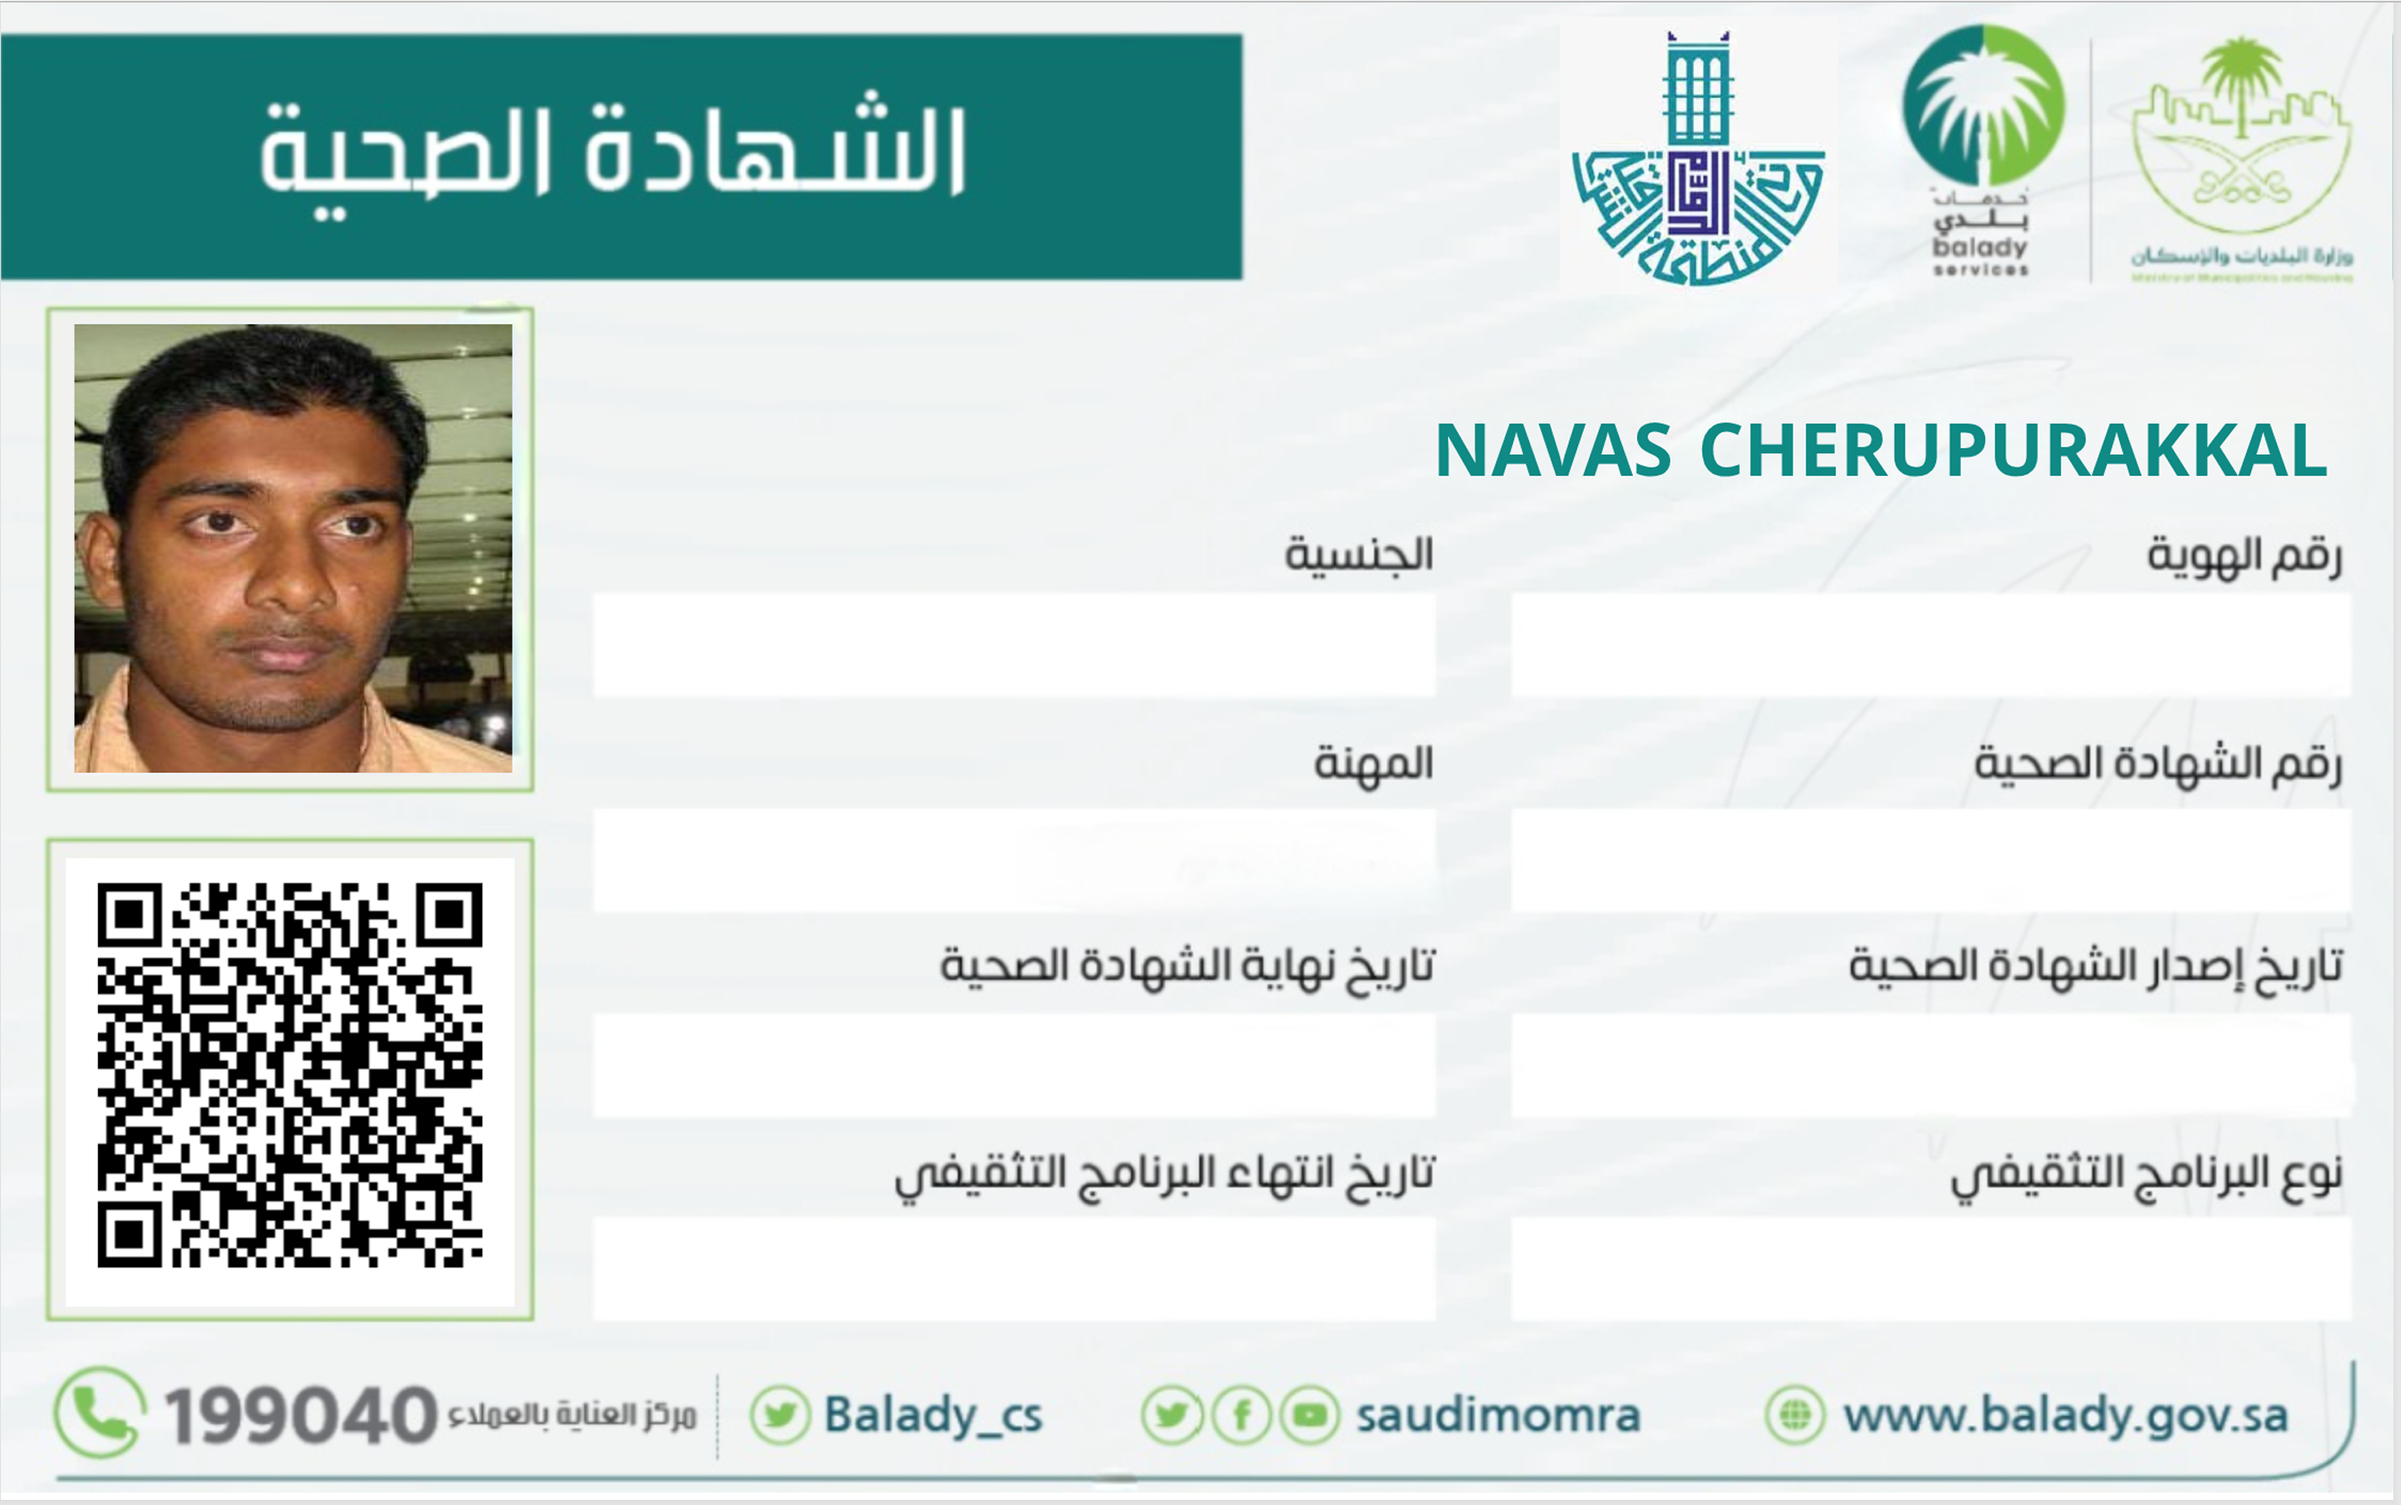
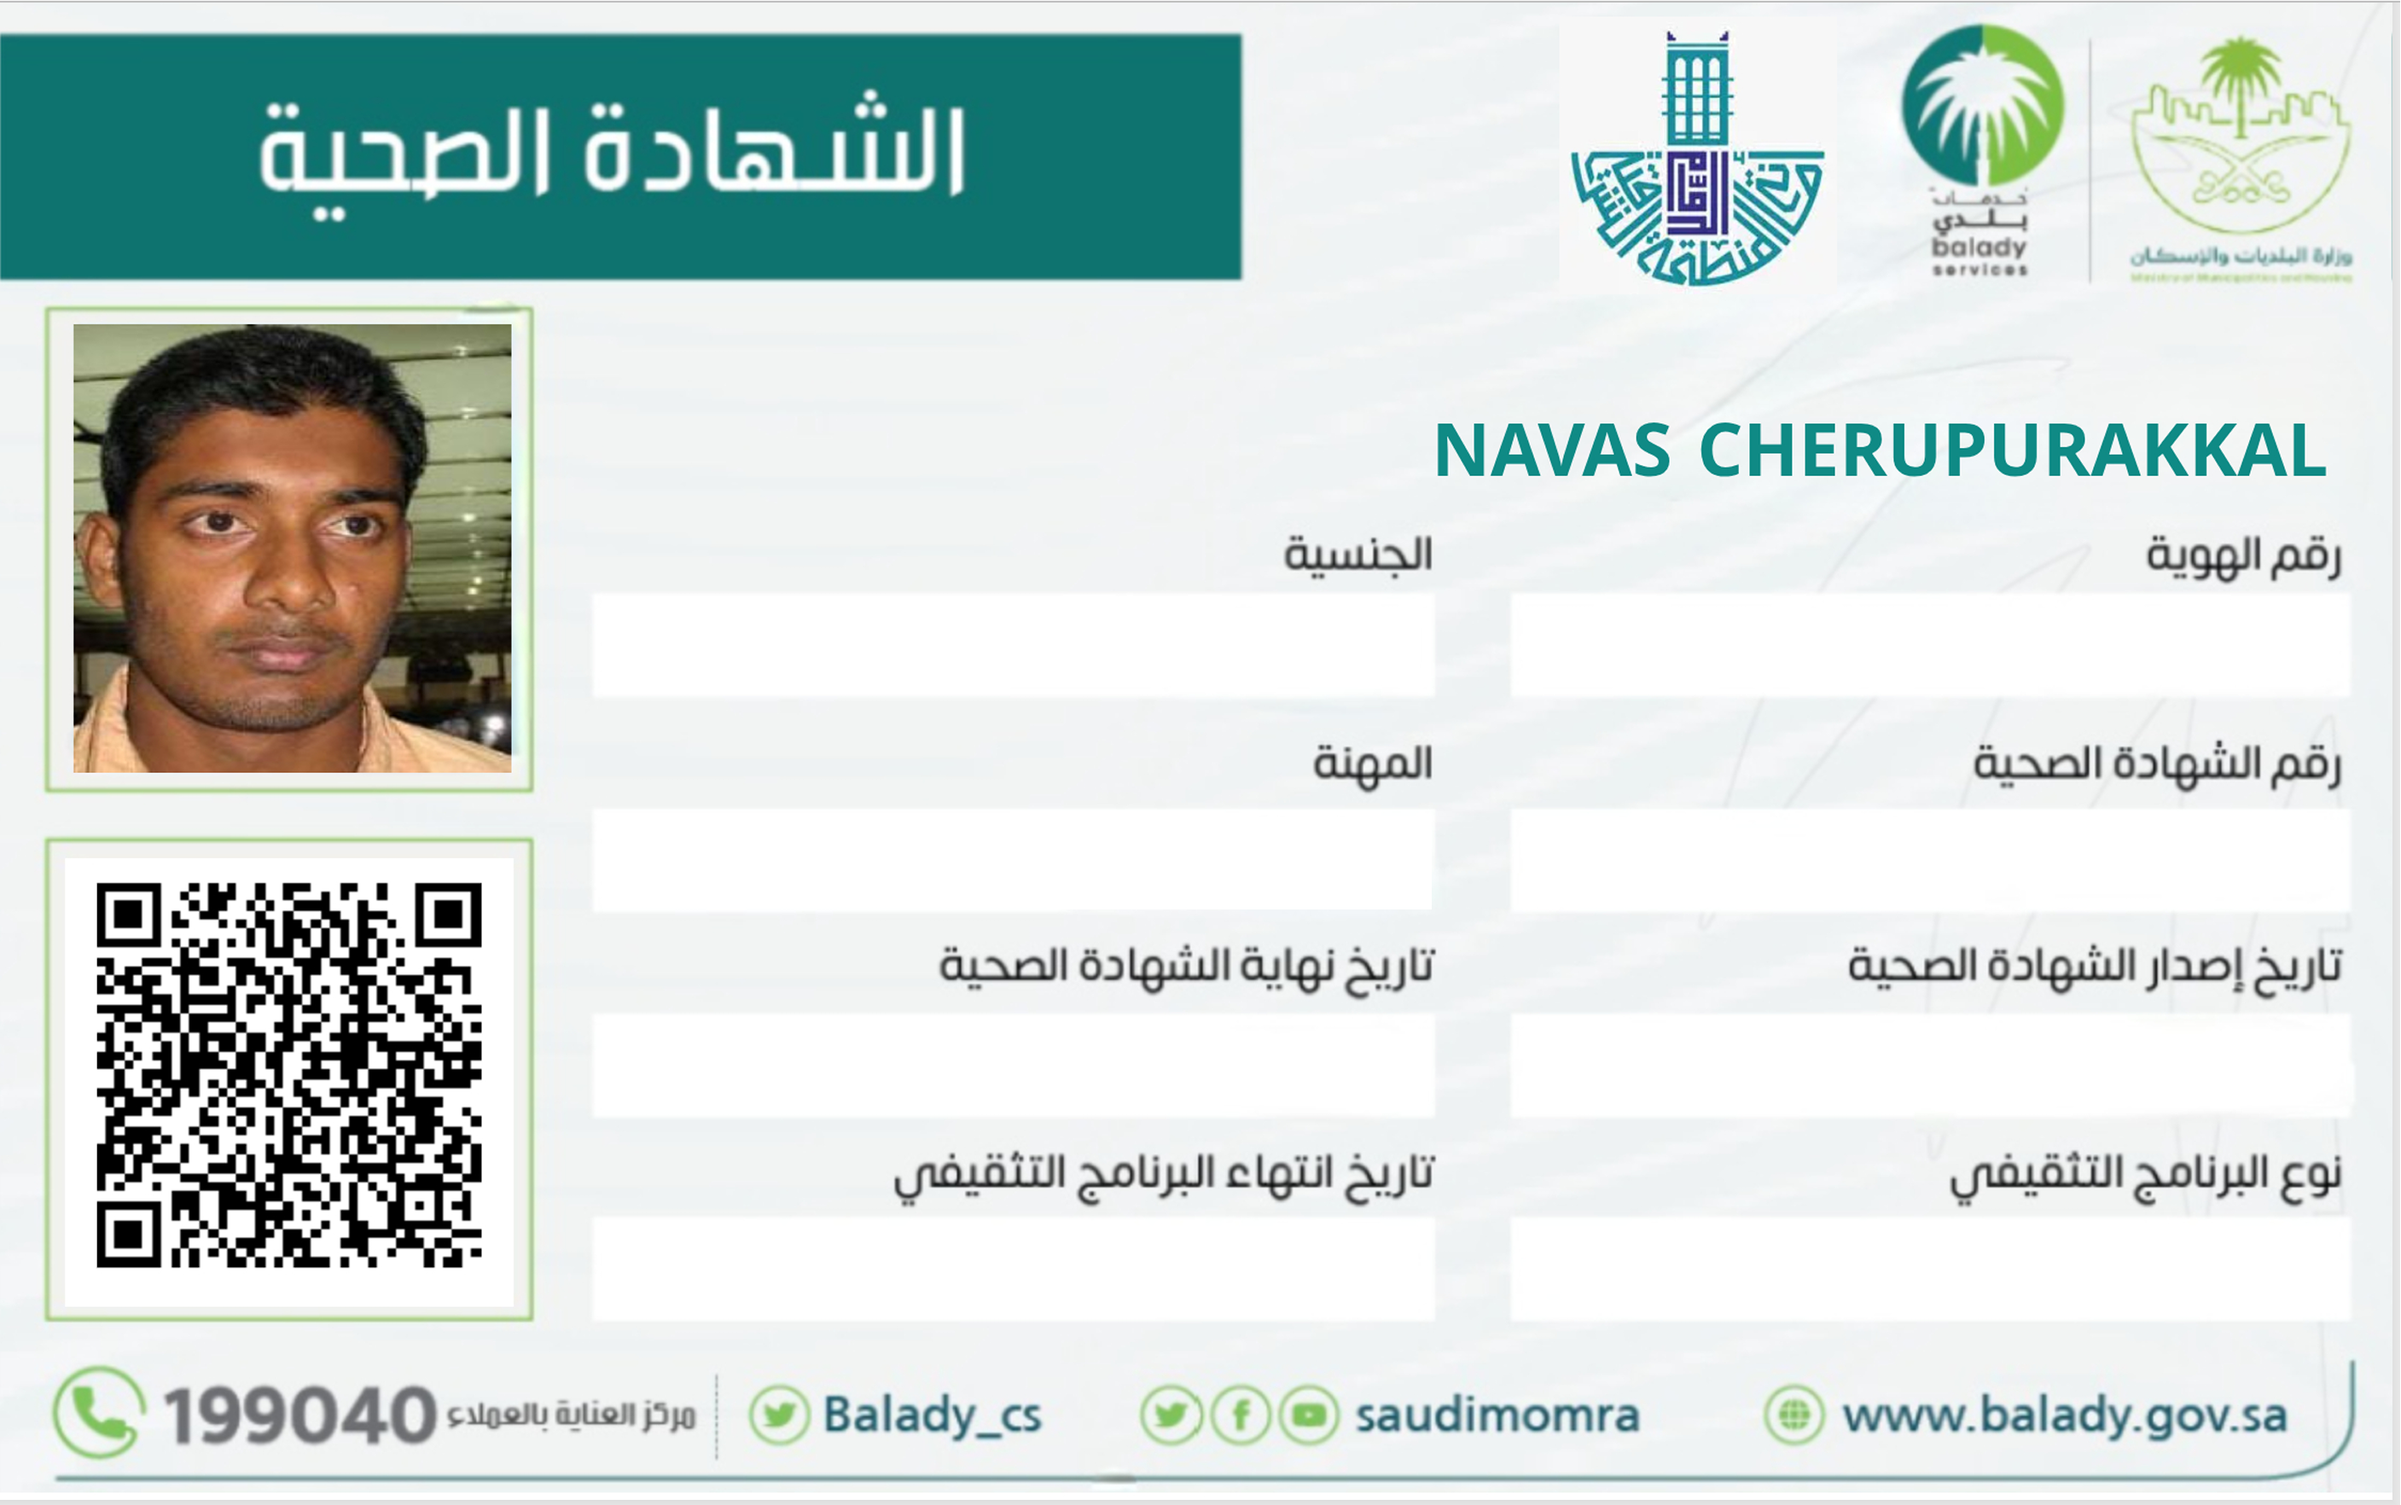
m77

diff --git a/app/health-certificate/page.tsx b/app/health-certificate/page.tsx
@@ -5,7 +5,6 @@ export default function HealthCertificatePage() {
   return (
     <div className="flex flex-col items-center justify-start min-h-screen p-0 m-0 relative">
       {/* الصورة داخل حاوية نسبية */}
-      <div className="relative w-full" style={{ maxWidth: "2048px" }}>
         <Image
           src="/tr1.png"
           alt="الشهادة الصحية"
@@ -15,34 +14,32 @@ export default function HealthCertificatePage() {
           className="object-contain w-full h-auto"
         />
 
-        {/* المربعات النصية بالنسبة المئوية */}
-       <div
-  className="absolute text-black"
-  style={{
-    left: "85.0%",
-    top: "41%",
-    width: "24.41%",
-    height: "3.9%",
-    fontSize: "28px", // هنا تحدد الحجم بالبكسل
-    fontWeight: "bold" // إذا أردت يكون عريض
-  }}
->
-  <span>1234567890</span>
-</div>
-
+   {/* صورة الشخص مكان المربع الأخضر */}
         <div
-  className="absolute text-black"
-  style={{
-    left: "82.0%",
-    top: "55%",
-    width: "24.41%",
-    height: "3.9%",
-    fontSize: "28px", // هنا تحدد الحجم بالبكسل
-    fontWeight: "bold" // إذا أردت يكون عريض
-  }}
->
-  <span>1234567890123</span>
-</div>
+          className="absolute overflow-hidden"
+          style={{
+            left: "2.9%",
+            top: "8.3%",
+            width: "18.5%",
+            height: "11.8%"
+          }}
+        >
+          <Image
+            src="/face.jpg" // ضع مسار الصورة هنا
+            alt="صورة الشخص"
+            fill
+            className="object-cover"
+          />
+        </div>
+     
+    
+        {/* المربعات النصية بالنسبة المئوية */}
+       <div className="absolute text-black" style={{ left: "70.83%", top: "12.47%", width: "24.41%", height: "3.9%" }}>
+          <span>1234567890</span>
+        </div>
+        <div className="absolute text-black" style={{ left: "46.38%", top: "12.47%", width: "19.53%", height: "3.9%" }}>
+          <span>Indian</span>
+        </div>
         <div className="absolute text-black" style={{ left: "70.83%", top: "21.04%", width: "24.41%", height: "3.9%" }}>
           <span>HC-987654</span>
         </div>
@@ -62,6 +59,6 @@ export default function HealthCertificatePage() {
           <span>2026-06-01</span>
         </div>
       </div>
-    </div>
+   
   );
 }
